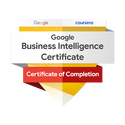
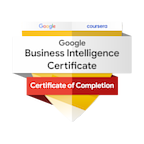
adjusted badges

diff --git a/index.html b/index.html
@@ -659,21 +659,26 @@
         max-height: 100%;
         object-fit: contain; /* Maintain aspect ratio and fit within the container */
     }
+
+    /* Add bottom margin to align the second image with the first one */
+    .footer-content a:nth-child(2) {
+        margin-bottom: -10px;
+    }
 </style>
 </head>
 <body>
 <footer>
-<div class="footer-content">
-    <!-- Certification Badge Code -->
-    <a href="https://www.certificationprovider.com/certificate-link" target="_blank">
-        <img src="assets/img/portfolio/google-7.png" alt="Certification Badge">
-    </a>
+    <div class="footer-content">
+        <!-- Certification Badge Code -->
+        <a href="https://www.certificationprovider.com/certificate-link" target="_blank">
+            <img src="assets/img/portfolio/google-1.png" alt="Certification Badge">
+        </a>
 
-    <!-- Certification Badge Code -->
-    <a href="https://www.certificationprovider.com/certificate-link" target="_blank">
-        <img src="assets/img/portfolio/google-3.png" alt="Certification Badge">
-    </a>
-</div>
+        <!-- Certification Badge Code -->
+        <a href="https://www.certificationprovider.com/certificate-link" target="_blank">
+            <img src="assets/img/portfolio/google-2.png" alt="Certification Badge">
+        </a>
+    </div>
 </footer>
   
   
